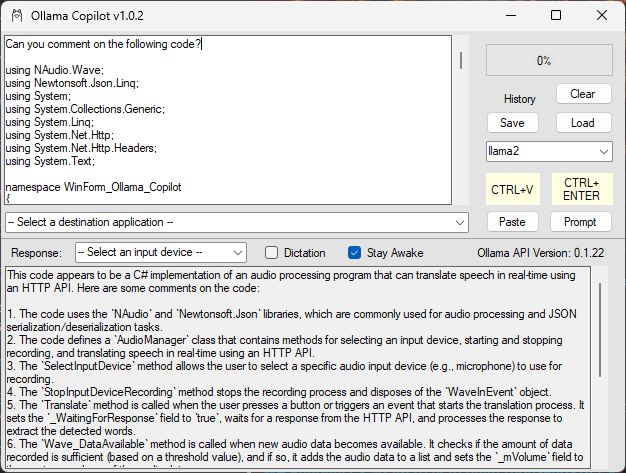
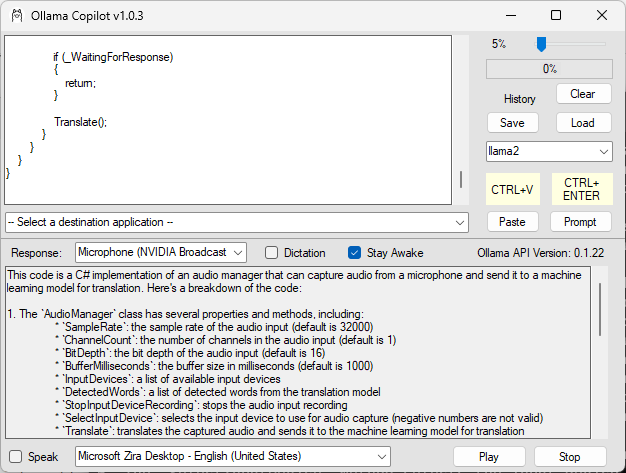
Document text to speech

diff --git a/Form1.cs b/Form1.cs
@@ -160,30 +160,40 @@ namespace WinForm_Ollama_Copilot
             TimerVolume.Interval = 100;
             TimerVolume.Start();
 
+            await PopulateVoices();
+        }
+
+        private async Task PopulateVoices()
+        {
             #region DropDownVoices
 
             DropDownOutputVoice.Items.Add("-- Select an output voice --");
-            List<string> voices = await _mSpeakManager.GetVoices();
-            foreach (string name in voices)
-            {
-                DropDownOutputVoice.Items.Add(name);
-            }
-
             string strOutputVoice = ReadConfiguration("OutputVoice");
-            found = false;
-            for (int i = 0; i < DropDownOutputVoice.Items.Count; ++i)
+            DropDownOutputVoice.SelectedIndex = 0;
+            List<string> voices = null;
+            do
             {
-                if (DropDownOutputVoice.Items[i].ToString() == strOutputVoice)
+                voices = await _mSpeakManager.GetVoices();
+                if (voices.Count == 0)
                 {
-                    DropDownOutputVoice.SelectedIndex = i;
-                    found = true;
-                    break;
+                    await Task.Delay(3000);
+                    continue;
+                }
+                foreach (string name in voices)
+                {
+                    DropDownOutputVoice.Items.Add(name);
+                }
+
+                for (int i = 0; i < DropDownOutputVoice.Items.Count; ++i)
+                {
+                    if (DropDownOutputVoice.Items[i].ToString() == strOutputVoice)
+                    {
+                        DropDownOutputVoice.SelectedIndex = i;
+                        break;
+                    }
                 }
             }
-            if (!found)
-            {
-                DropDownFocus.SelectedIndex = 0;
-            }
+            while (voices.Count == 0);
 
             #endregion DropDownVoices
         }

diff --git a/README.md b/README.md
@@ -48,6 +48,8 @@ The application has a text prompt that uses the Ollama chat API. Application win
 
 * [Whisper](https://github.com/openai/whisper.git)
 
+* [Pyttsx3](https://pypi.org/project/pyttsx3/)
+
 ### Ollama With Docker
 
 * Install [Docker Desktop](https://www.docker.com/products/docker-desktop/)
@@ -126,4 +128,26 @@ There are five model sizes, four with English-only versions, offering speed and 
 
 ```shell
 python3 WhisperTest.py audio.mp3
+```
+
+## Launch Pyttsv3 Server to enable text to speech
+
+### Windows
+
+* Install [Python](https://apps.microsoft.com/detail/9NRWMJP3717K?hl=en-us&gl=US) from the Microsoft Store app on the Windows host machine which has access to the sound card.
+
+![image_7](images/image_7.png)
+
+* Open the Windows command prompt to install dependencies
+
+```cmd
+pip3 install uvicorn
+pip3 install FastAPI[all]
+pip3 install pyttsx3
+```
+
+* Launch the Pyttsv3 Server in the Windows command prompt
+
+```cmd
+python3 -m uvicorn Pyttsv3Server:app --reload --port 11438
 ```
